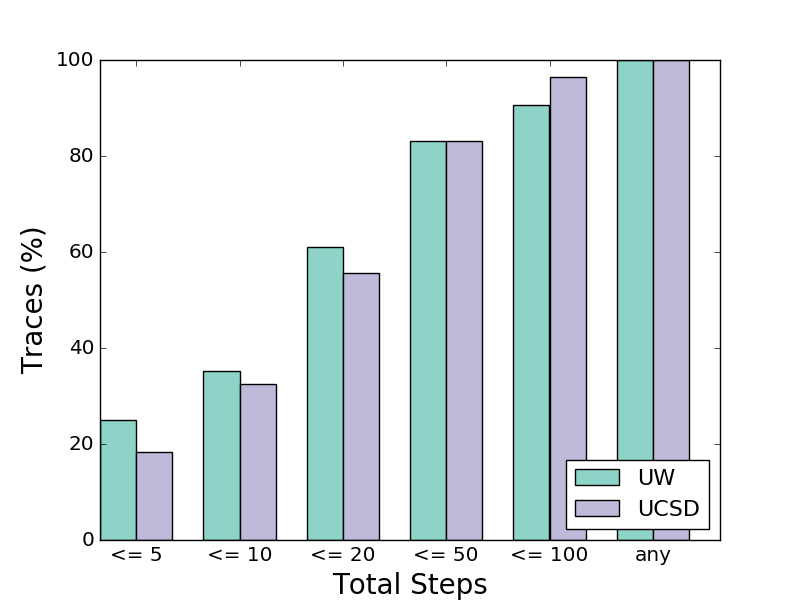
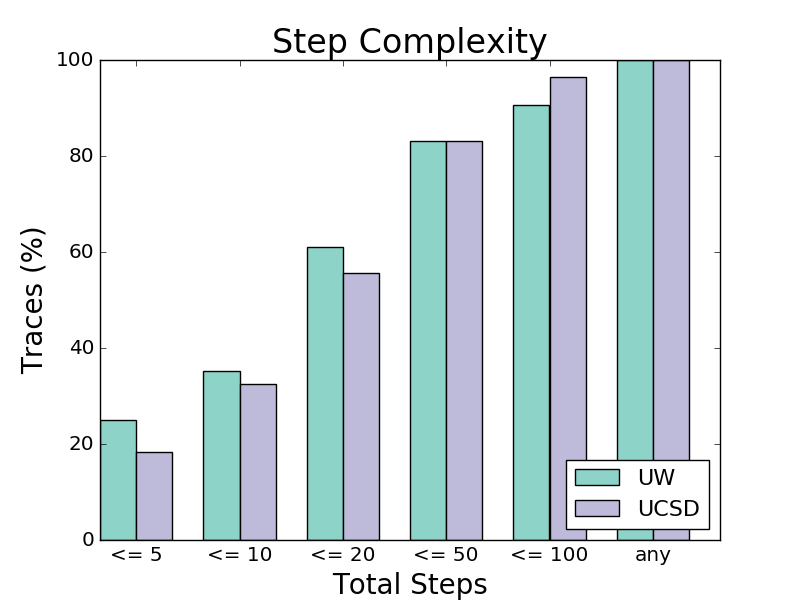
misc tweaks

Changed region(s): [[0.3438, 0.03, 0.6875, 0.09]]

diff --git a/paper/jfp-submission/evaluation.tex b/paper/jfp-submission/evaluation.tex
@@ -107,30 +107,37 @@ If so, the function cannot possibly terminate and we report an error.
 While not a \emph{type error}, infinite recursion is still a clear bug
 in the program, and thus valuable feedback for the user.
 
-\begin{figure}[htp]
-\centerline{
-\begin{minipage}{1.2\textwidth}
-\includegraphics[width=0.5\linewidth]{coverage.png}
+\begin{figure}[t]
+% \centerline{
+% \begin{minipage}{1.2\textwidth}
+\centering
+\includegraphics[width=0.7\linewidth]{coverage.png}
 % \end{minipage}
 % \begin{minipage}{\linewidth}
-\includegraphics[width=0.5\linewidth]{distrib.png}
-\end{minipage}
-}
-\vspace{3ex}
-\caption{Results of our coverage testing and the distribution of test
-  outcomes. Our random search successfully finds witnesses for 76--82\% of
-  the programs in under one second, improving to 84--85\% in under
-  10 seconds. In both datasets we detect actual type errors at least 75\%
-  of the time, unbound variables or constructors 4--5\% of the time, and
-  diverging loops 3\% of the time. For the remaining 13--16\% of the
-  programs we are unable to provide any useful feedback.  }
+% \includegraphics[width=0.6\linewidth]{distrib.png}
+% \end{minipage}
+% }
+% \vspace{3ex}
+\caption{Results of our coverage testing. Our random search successfully
+  finds witnesses for 76--82\% of the programs in under one second,
+  improving to 84--85\% in under 10 seconds. }
 \label{fig:results-witness}
 \end{figure}
+\begin{figure}[t]
+\includegraphics[width=0.7\linewidth]{distrib.png}
+\caption{Distribution of test outcomes. In both datasets we detect
+  actual type errors at least 75\% of the time, unbound variables or
+  constructors 4--5\% of the time, and diverging loops 3\% of the
+  time. For the remaining 13--16\% of the programs we are unable to
+  provide any useful feedback. }
+\label{fig:results-distrib}
+\end{figure}
+
 
 \paragraph{Results}
 \label{sec:results-witness}
 The results of our experiments are summarized in
-Figure~\ref{fig:results-witness}.
+Figures~\ref{fig:results-witness}~and~\ref{fig:results-distrib}.
 %
 In both datasets our tool was able to find a witness for over 75\% of the
 programs in under one second, \ie\ fast enough to be integrated as a
@@ -182,13 +189,13 @@ trace using two metrics.
 % \item \ES{others?}
 %
 \begin{figure}[t]
-\centerline{
-\begin{minipage}{1.2\textwidth}
-\includegraphics[width=0.5\linewidth]{trace_size_step.png}
-\includegraphics[width=0.5\linewidth]{trace_size_jump.png}
-\end{minipage}
-}
-\vspace{3ex}
+% \centerline{
+% \begin{minipage}{1.2\textwidth}
+\includegraphics[width=0.7\linewidth]{trace_size_step.png}
+\includegraphics[width=0.7\linewidth]{trace_size_jump.png}
+% \end{minipage}
+% }
+% \vspace{3ex}
 \caption{Complexity of the generated traces. Over 80\% of the combined traces
   have a jump complexity of at most 10, with an average complexity of 7
   and a median of 5.}
@@ -207,7 +214,8 @@ The average number of single-step reductions per trace is 30 for the
 The average number of jumps per trace is 7 (\resp 10) with a
 maximium of 353 (\resp 221) and a median of 4 (\resp 4).
 %
-In both datasets 80\% or more traces have at most 10 jumps.
+In both datasets 60\% of traces have at most 5 jumps, and 80\% or more
+have at most 10 jumps.
 
 
 \subsection{Qualitative Evaluation of Witness Utility}\label{sec:advantage-traces}
@@ -263,7 +271,7 @@ of the result.
 \end{ecode}
 %
 Unfortunately the student has used the list-append
-operator |@| instead of \texttt{+} to compute the sum.
+operator |@| instead of \texttt{+}. % to compute the sum.
 %
 Both \ocaml\ and \sherrloc\ blame the \emph{wrong location},
 the recursive call @sqsum t@, with the message
@@ -275,12 +283,12 @@ the recursive call @sqsum t@, with the message
     'a list
 \end{verbatim}
 %
-\toolname\ produces a trace showing how the evaluation of
-@sqsum [1]@ gets stuck.
-%
 \begin{center}
   \includegraphics[height=125px]{sqsum.png}
 \end{center}
+%
+\toolname\ produces the above trace showing how the evaluation of
+@sqsum [1]@ gets stuck.
 %
 The trace highlights the entire stuck term
 (not just the recursive call), emphasizing
@@ -546,13 +554,13 @@ would require having students answer the same problem twice (once with
 \ocaml and once with \toolname).
 
 \begin{figure}[t]
-\centerline{
-\begin{minipage}{1.2\textwidth}
-\includegraphics[width=0.5\linewidth]{user-study-reason.png}
-\includegraphics[width=0.5\linewidth]{user-study-fix.png}
-\end{minipage}
-}
-\vspace{3ex}
+% \centerline{
+% \begin{minipage}{1.2\textwidth}
+\includegraphics[width=0.7\linewidth]{user-study-reason.png}
+\includegraphics[width=0.7\linewidth]{user-study-fix.png}
+% \end{minipage}
+% }
+% \vspace{3ex}
 \caption{A classification of students' explanations and fixes for type
   errors, given either \ocaml's error % message
   or \toolname's
@@ -592,7 +600,7 @@ to type errors:
 %
 (1) with high coverage in a timespan amenable to compile-time analysis;
 %
-(2) with traces that have a low average complexity of 7 jumps;
+(2) with traces that have a low median complexity of 5 jumps;
 %
 (3) that are more helpful to novice programmers than traditional type
 error messages; and
@@ -604,7 +612,7 @@ are:
 %
 (1) coverage limits due to random generation;
 %
-(2) dealing with an explosion in the size of generated traces;
+(2) dealing with explosions in the size of generated traces;
 %
 %(3) the inability to handle certain instances of infinite types; and
 (3) our use of a non-parametric function type; and

diff --git a/paper/jfp-submission/plots.py b/paper/jfp-submission/plots.py
@@ -233,7 +233,7 @@ def plot_trace_size(seminal, ucsd):
     print('avg/med/max:\t{}\t{}\t{}'.format(np.mean(step_u), np.median(step_s), np.max(step_u)))
     p2 = plt.bar(ind + width, c_step_u, label=UCSD, width=width, color=COLORS[1])
     plt.legend((p1[0],p2[0]), ('UW',UCSD), loc='lower right', fontsize=16)
-    # plt.title('Trace Complexity', fontsize=24)
+    plt.title('Step Complexity', fontsize=24)
     plt.xlabel('Total Steps', fontsize=20)
     plt.ylabel('Traces (%)', fontsize=20)
     # ax.set_xlim(0,6)
@@ -269,7 +269,7 @@ def plot_trace_size(seminal, ucsd):
     print('avg/med/max:\t{}\t{}\t{}'.format(np.mean(jump_u), np.median(jump_s), np.max(jump_u)))
     p2 = plt.bar(ind + width, c_jump_u, label=UCSD, width=width, color=COLORS[1])
     plt.legend((p1[0],p2[0]), ('UW',UCSD), loc='lower right', fontsize=16)
-    # plt.title('Complexity of Traces (in jumps)', fontsize=24)
+    plt.title('Jump Complexity', fontsize=24)
     plt.xlabel('Total Jumps', fontsize=20)
     # plt.xlabel('Jumps', fontsize=20)
     plt.ylabel('Traces (%)', fontsize=20)
@@ -342,7 +342,7 @@ def plot_distrib(seminal, ucsd):
 
     #plt.tight_layout()
 
-    plt.suptitle('Distribution of Results', fontsize=24, y=0.9)
+    plt.suptitle('Distribution of Test Outcomes', fontsize=24, y=0.9)
     plt.figlegend(p1[0], ALL_DL, 'lower center', fontsize=18, ncol=2)
 
 

diff --git a/paper/jfp-submission/locating.tex b/paper/jfp-submission/locating.tex
@@ -80,7 +80,7 @@ We discard all such programs in our evaluation to level the playing
 field, leaving us with a benchmark set of 1,569 programs.
 
 \begin{figure}[t]
-\includegraphics[width=0.8\linewidth]{blame.png}
+\includegraphics[width=0.7\linewidth]{blame.png}
 \caption{Accuracy of type error localization. \toolname's witness-based
   predictions outperform \ocaml by 22 points, and are competitive
   with the state-of-the-art tools \mycroft and \sherrloc.}

diff --git a/paper/jfp-submission/safe.tex b/paper/jfp-submission/safe.tex
@@ -29,7 +29,7 @@ we note the classes that were based on the random sample with a ``*''.
 
 \begin{figure}[t]
 %\centering
-\includegraphics[width=0.8\linewidth]{distrib_ext.png}
+\includegraphics[width=0.7\linewidth]{distrib_ext.png}
 \vspace{-0.75cm}
 \caption{Results of our investigation into programs where \toolname
   did not produce a witness. A ``*'' denotes that the percentage is an
